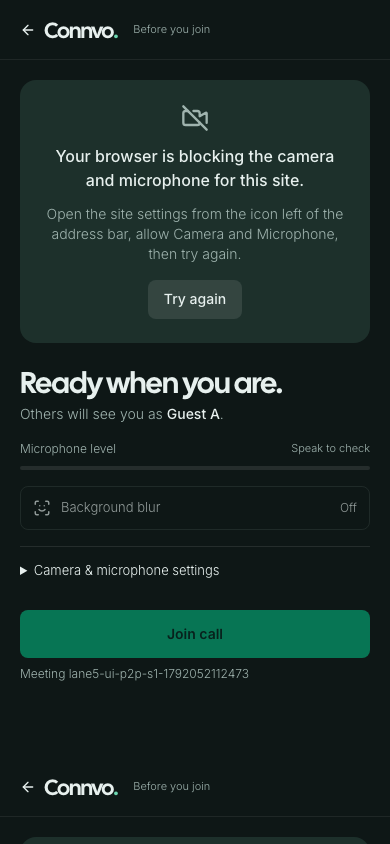
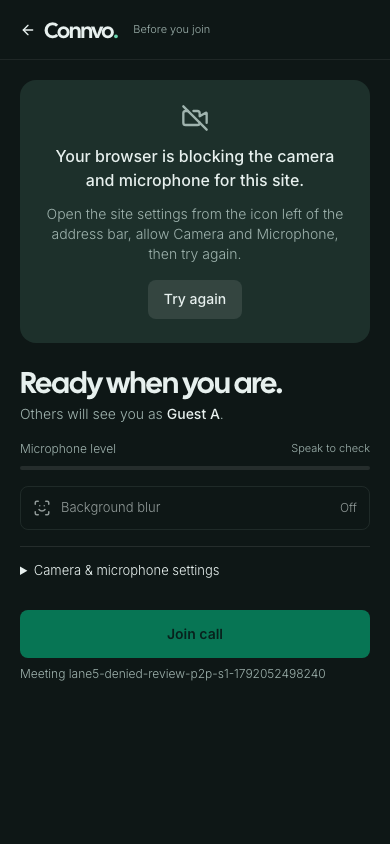
test(call): wait for viewport paint before captures

diff --git a/docs/call-ui/verification/README.md b/docs/call-ui/verification/README.md
@@ -18,6 +18,8 @@ Merged alpha `7aabfb8bc54709cfb5d105a2536438da0153c24e` before final verificatio
 - `type-baseline.json` compares the application compiler against the base through an in-memory compiler host. Alpha `7aabfb8` reports 33 application diagnostics; this branch reports 32, with no added diagnostic. The full `pnpm type-check` also reports 444 harness diagnostics after merging TURN.
 - `pnpm lint` invokes `next lint`, which Next 16 no longer provides. Targeted ESLint uses `docs/call-ui/eslint.config.mjs`, the installed Next core-web-vitals rules in flat-config format. It passes for the changed production TypeScript files.
 
+Permission-error captures were refreshed after visual review found stale compositor tiles during viewport resizing. The DOM had one header and call room; two animation frames after resize produced clean captures at all three sizes. The capture script now waits for that paint.
+
 Screenshots hide the Next development inspector, which is absent from production. The browser fixtures use generated media. They prove rendering, state and connection behavior under automation; they do not establish real iPhone camera switching, permission prompts, physical audio playback, or low-end device performance. `check.mjs` also mounts the real side-panel component in an isolated fixture. That fixture mounts the real prompt view above an unsaved textarea. It verifies prompt actions, scrolling to notes, sheet focus and draft preservation; it does not verify Convex persistence.
 
 ## Prep-for-prod source review
